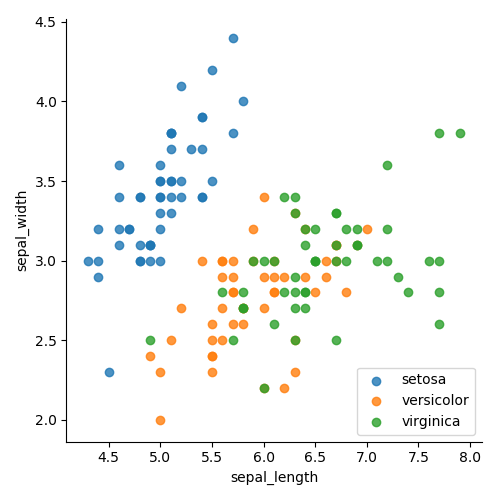
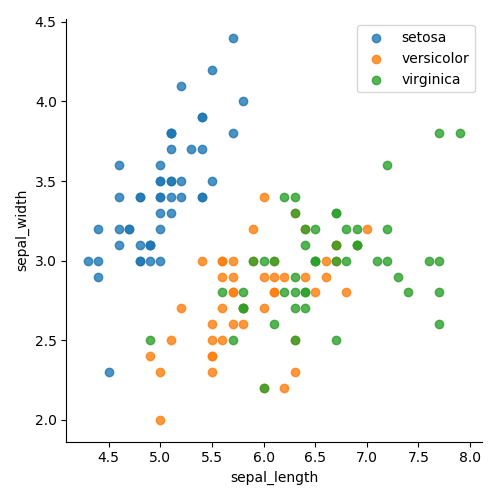
Updating readme with scatterplot diagrams

diff --git a/fisher_iris.py b/fisher_iris.py
@@ -94,7 +94,7 @@ plt.savefig('images/histogram_petal_width_species_comparison')
 
 # Code to create scatterplot adapted from: http://python-graph-gallery.com/scatter-plot/
 sbn.lmplot( x='sepal_length', y='sepal_width', data=df, fit_reg=False, hue='species', legend=False)
-plt.legend(loc='lower right')
+plt.legend(loc='upper right')
 plt.savefig('images/sepal_length_sepal_width_scatter.png')
 
 sbn.lmplot( x='petal_length', y='petal_width', data=df, fit_reg=False, hue='species', legend=False)

diff --git a/README.MD b/README.MD
@@ -80,7 +80,13 @@ Fig.vi. show as comparison of the districbution of data points between petal len
 
 ## Scatterplot of Dataset
 
+<img width="600" height="600" src="images/sepal_length_sepal_width_scatter.png">
 
+**fig.viii. Scatterplot Sepal Length & Width**
+
+<img width="600" height="600" src="images/petal_length_petal_width_scatter.png">
+
+**fig.ix. Scatterplot Petal Length & Width**
 
 
 ## Results of Python Calculations
